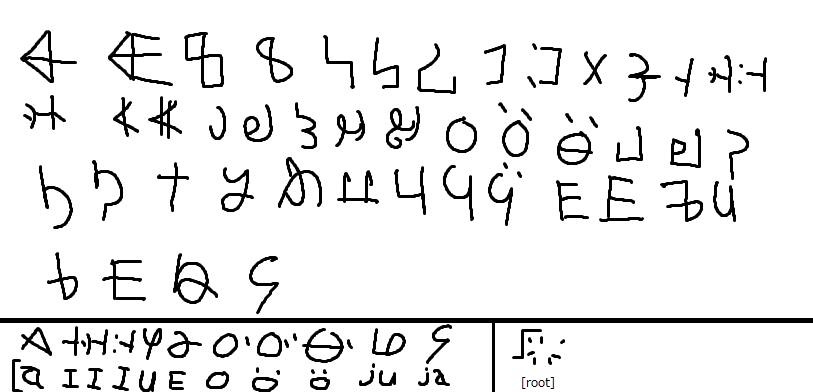
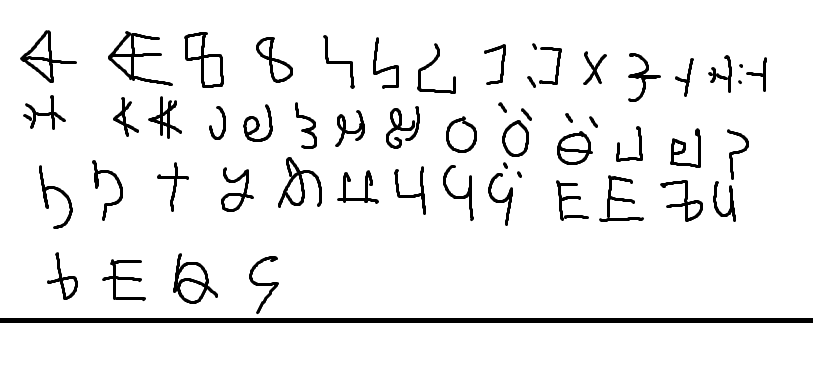
るみ文字

Changed region(s): [[0.0, 0.8265, 0.5535, 1.0], [0.5843, 0.8265, 0.7073, 1.0], [0.6458, 0.949, 0.6765, 1.0]]

diff --git a/文字.md b/文字.md
@@ -11,5 +11,9 @@ ___
 わたしが両方を間違えて逆に覚えていたからロシア語とは逆<BR>
 
 ### るみ文字
-
-![代替テキスト](./Asetts/rumimozi.png)
+子音<BR>
+![代替テキスト](./Asetts/rumimozi.png)<BR>
+母音<BR>
+![代替テキスト](./Asetts/oppaiboin.png)<BR>
+発音記号<BR>
+![代替テキスト](./Asetts/talk.png)<BR>

diff --git a/文法_grammar.md b/文法_grammar.md
@@ -21,7 +21,8 @@ ___
 <BR>
 ～У => 複数形<BR>
 <BR>
-～るみ文字のroot => 敬語<BR>
+～るみ文字のroot => 伸ばす、敬語の意になる<BR>
+るみ文字のbakt => 強く弾くように発音<BR>
 
 文章の最後には、「.」の代わりに「;」をつける。<BR>
 ___
